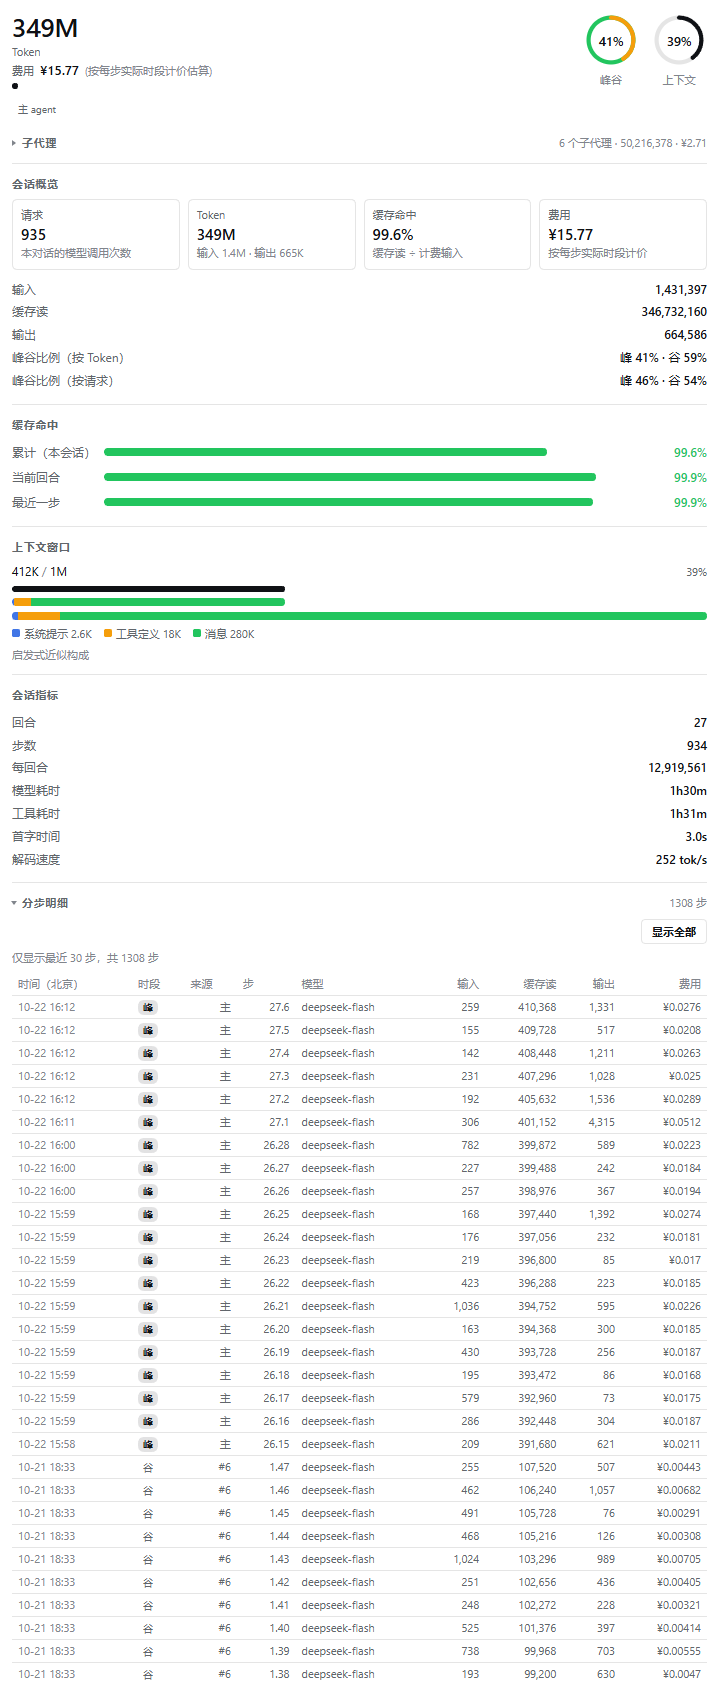
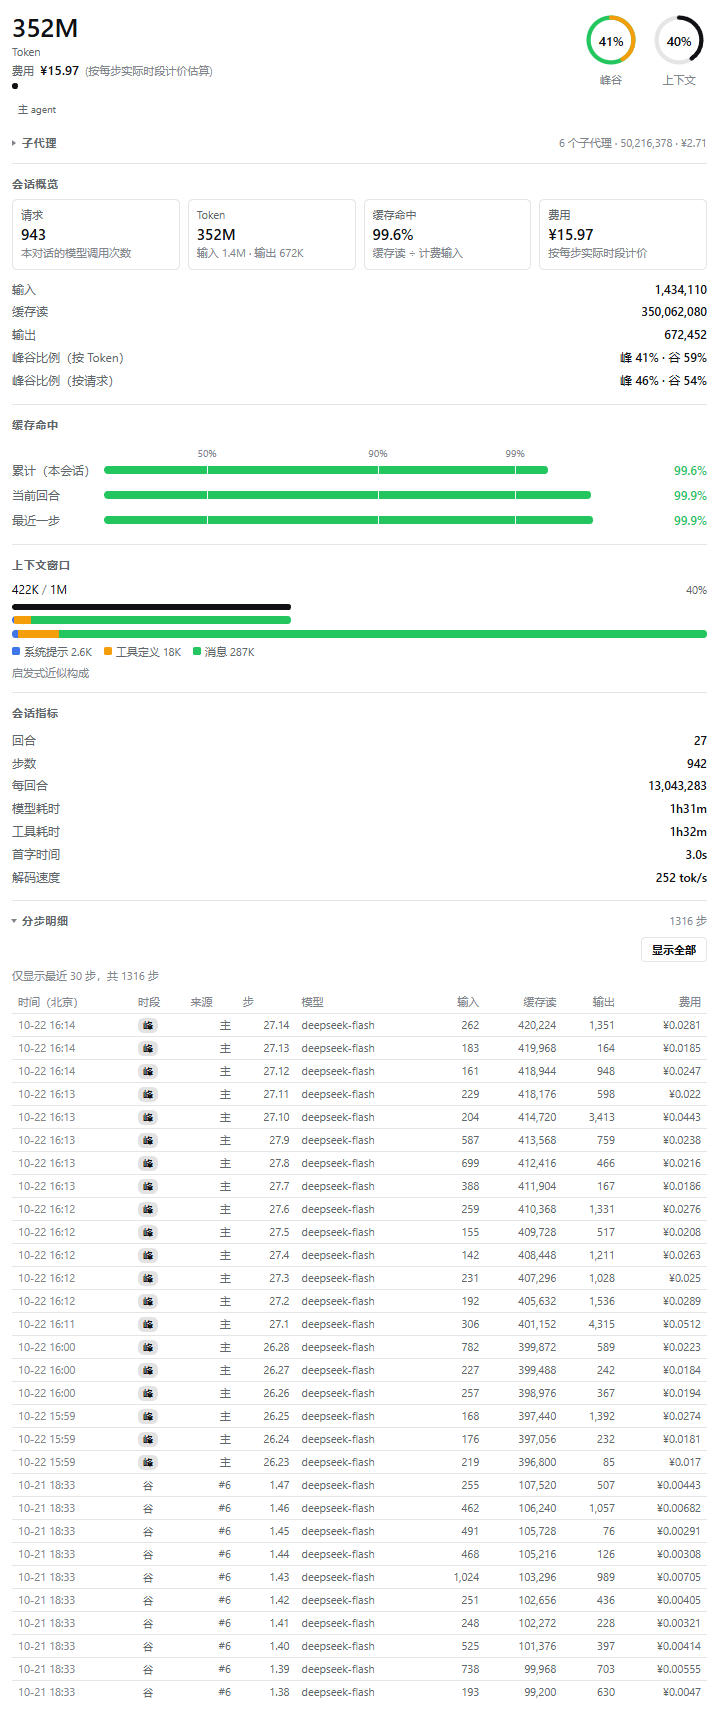
feat: ruler and tick lines for the cache-hit bars

diff --git a/dist/client.js b/dist/client.js
@@ -1,4 +1,4 @@
-/* dsh-usage-insights v0.10.1 — generated by scripts/build.mjs; do not edit. */
+/* dsh-usage-insights v0.10.2 — generated by scripts/build.mjs; do not edit. */
 window.__ModuleLoader__.load({
   id: "dsh-usage-insights",
   factory(require) {
@@ -1037,6 +1037,7 @@ function formatBeijingTime(atMs) {
 
 // src/lib/hit-scale.ts
 var HIT_SCALE_EXPONENT = 0.3;
+var HIT_TICKS = [0.5, 0.9, 0.99];
 function hitBarRatio(ratio) {
   const clamped = Math.min(1, Math.max(0, ratio));
   return 1 - (1 - clamped) ** HIT_SCALE_EXPONENT;
@@ -1345,12 +1346,42 @@ var css2 = `
 }
 
 .dsu-hit-track {
+  position: relative;
   flex: 1 1 auto;
   min-width: 0;
   height: 8px;
   overflow: hidden;
   border-radius: 999px;
   background: var(--dsw-alias-bg-layer-2);
+}
+
+.dsu-hit-grid {
+  position: absolute;
+  top: 0;
+  bottom: 0;
+  width: 1px;
+  background: var(--dsw-alias-bg-layer-1);
+}
+
+.dsu-hit--ruler {
+  padding-bottom: 0;
+}
+
+.dsu-hit-track--ruler {
+  height: 14px;
+  overflow: visible;
+  background: transparent;
+}
+
+.dsu-hit-tick {
+  position: absolute;
+  bottom: 0;
+  transform: translateX(-50%);
+  font-size: 10px;
+  line-height: 1;
+  white-space: nowrap;
+  color: var(--dsw-alias-label-tertiary);
+  font-variant-numeric: tabular-nums;
 }
 
 .dsu-hit-fill {
@@ -1933,8 +1964,18 @@ function HitBar(props) {
   const width = props.ratio === null ? 0 : hitBarRatio(props.ratio);
   return /* @__PURE__ */ (0, import_jsx_runtime2.jsxs)("div", { className: "dsu-hit", children: [
     /* @__PURE__ */ (0, import_jsx_runtime2.jsx)("span", { className: "dsu-hit-label", children: props.label }),
-    /* @__PURE__ */ (0, import_jsx_runtime2.jsx)("div", { className: "dsu-hit-track", children: props.ratio !== null && /* @__PURE__ */ (0, import_jsx_runtime2.jsx)("div", { className: "dsu-hit-fill", "data-level": level, style: { width: `${width * 100}%` } }) }),
+    /* @__PURE__ */ (0, import_jsx_runtime2.jsxs)("div", { className: "dsu-hit-track", children: [
+      HIT_TICKS.map((tick) => /* @__PURE__ */ (0, import_jsx_runtime2.jsx)("span", { className: "dsu-hit-grid", style: { left: `${hitBarRatio(tick) * 100}%` } }, tick)),
+      props.ratio !== null && /* @__PURE__ */ (0, import_jsx_runtime2.jsx)("div", { className: "dsu-hit-fill", "data-level": level, style: { width: `${width * 100}%` } })
+    ] }),
     /* @__PURE__ */ (0, import_jsx_runtime2.jsx)("span", { className: "dsu-hit-value", "data-level": level, children: props.ratio === null ? "\u2014" : formatPercent(props.ratio) })
+  ] });
+}
+function HitRuler() {
+  return /* @__PURE__ */ (0, import_jsx_runtime2.jsxs)("div", { className: "dsu-hit dsu-hit--ruler", "aria-hidden": "true", children: [
+    /* @__PURE__ */ (0, import_jsx_runtime2.jsx)("span", { className: "dsu-hit-label" }),
+    /* @__PURE__ */ (0, import_jsx_runtime2.jsx)("div", { className: "dsu-hit-track dsu-hit-track--ruler", children: HIT_TICKS.map((tick) => /* @__PURE__ */ (0, import_jsx_runtime2.jsx)("span", { className: "dsu-hit-tick", style: { left: `${hitBarRatio(tick) * 100}%` }, children: formatPercent(tick) }, tick)) }),
+    /* @__PURE__ */ (0, import_jsx_runtime2.jsx)("span", { className: "dsu-hit-value" })
   ] });
 }
 function CompositionProgress(props) {
@@ -2366,6 +2407,7 @@ function SessionPanel(props) {
       ] })
     ] }),
     view.hasUsage && /* @__PURE__ */ (0, import_jsx_runtime4.jsx)(Section, { title: t("section.cacheHit"), children: /* @__PURE__ */ (0, import_jsx_runtime4.jsxs)("div", { className: "dsu-hits", children: [
+      /* @__PURE__ */ (0, import_jsx_runtime4.jsx)(HitRuler, {}),
       /* @__PURE__ */ (0, import_jsx_runtime4.jsx)(HitBar, { label: t("cacheHit.total"), ratio: view.cacheHits.total }),
       /* @__PURE__ */ (0, import_jsx_runtime4.jsx)(HitBar, { label: t("cacheHit.turn"), ratio: view.cacheHits.turn }),
       /* @__PURE__ */ (0, import_jsx_runtime4.jsx)(HitBar, { label: t("cacheHit.step"), ratio: view.cacheHits.step })

diff --git a/src/client/components.tsx b/src/client/components.tsx
@@ -9,7 +9,7 @@
 import type { JSX, ReactNode } from 'react'
 import type { BandShareView, ChildAgentView, DayTotal, StepDetailView, Translate } from './contract'
 import { peakRequestShare, peakTokenShare } from '../lib/band-share.ts'
-import { hitBarRatio, hitLevel } from '../lib/hit-scale.ts'
+import { hitBarRatio, hitLevel, HIT_TICKS } from '../lib/hit-scale.ts'
 import { formatBeijingTime, formatCount, formatMoneyRange, formatPercent, formatTokenCount, formatTokens } from '../lib/format'
 import { css } from './styles'
 
@@ -96,7 +96,9 @@ export function ProgressBar(props: { ratio: number | null }): JSX.Element {
  * Cache-hit bar with its percentage.
  *
  * The fill uses the non-linear scale from `hit-scale` so rates above 90% keep
- * their differences visible; the percentage carries the status colour.
+ * their differences visible; the percentage carries the status colour. Reference
+ * ticks from the same scale are cut into the fill so a length can be read back
+ * as a percentage.
  *
  * @param props - row label and the hit ratio, or null without usage.
  * @returns the rendered bar.
@@ -108,6 +110,9 @@ export function HitBar(props: { label: string; ratio: number | null }): JSX.Elem
     <div className="dsu-hit">
       <span className="dsu-hit-label">{props.label}</span>
       <div className="dsu-hit-track">
+        {HIT_TICKS.map(tick => (
+          <span key={tick} className="dsu-hit-grid" style={{ left: `${hitBarRatio(tick) * 100}%` }} />
+        ))}
         {props.ratio !== null && (
           <div className="dsu-hit-fill" data-level={level} style={{ width: `${width * 100}%` }} />
         )}
@@ -115,6 +120,30 @@ export function HitBar(props: { label: string; ratio: number | null }): JSX.Elem
       <span className="dsu-hit-value" data-level={level}>
         {props.ratio === null ? '—' : formatPercent(props.ratio)}
       </span>
+    </div>
+  )
+}
+
+/**
+ * Ruler shared by the cache-hit bars.
+ *
+ * Sits above them with the same label/track/value structure, so every tick
+ * label lands exactly above the line cut into each bar.
+ *
+ * @returns the rendered ruler row.
+ */
+export function HitRuler(): JSX.Element {
+  return (
+    <div className="dsu-hit dsu-hit--ruler" aria-hidden="true">
+      <span className="dsu-hit-label" />
+      <div className="dsu-hit-track dsu-hit-track--ruler">
+        {HIT_TICKS.map(tick => (
+          <span key={tick} className="dsu-hit-tick" style={{ left: `${hitBarRatio(tick) * 100}%` }}>
+            {formatPercent(tick)}
+          </span>
+        ))}
+      </div>
+      <span className="dsu-hit-value" />
     </div>
   )
 }

diff --git a/src/client/SessionPanel.tsx b/src/client/SessionPanel.tsx
@@ -18,8 +18,8 @@ import {
 } from '../lib/format'
 import { peakTokenShare } from '../lib/band-share.ts'
 import {
-  bandShareText, ChildAgentsTable, CompositionBar, CompositionProgress, HitBar, InlineMessage, ProgressBar,
-  Ring, Row, Section, Stat, StepTable, StyleTag,
+  bandShareText, ChildAgentsTable, CompositionBar, CompositionProgress, HitBar, HitRuler, InlineMessage,
+  ProgressBar, Ring, Row, Section, Stat, StepTable, StyleTag,
 } from './components'
 import type { CompositionSegment } from './components'
 
@@ -206,6 +206,7 @@ export function SessionPanel(props: SessionPanelProps): JSX.Element {
       {view.hasUsage && (
         <Section title={t('section.cacheHit')}>
           <div className="dsu-hits">
+            <HitRuler />
             <HitBar label={t('cacheHit.total')} ratio={view.cacheHits.total} />
             <HitBar label={t('cacheHit.turn')} ratio={view.cacheHits.turn} />
             <HitBar label={t('cacheHit.step')} ratio={view.cacheHits.step} />

diff --git a/src/client/styles.ts b/src/client/styles.ts
@@ -302,12 +302,42 @@ export const css = `
 }
 
 .dsu-hit-track {
+  position: relative;
   flex: 1 1 auto;
   min-width: 0;
   height: 8px;
   overflow: hidden;
   border-radius: 999px;
   background: var(--dsw-alias-bg-layer-2);
+}
+
+.dsu-hit-grid {
+  position: absolute;
+  top: 0;
+  bottom: 0;
+  width: 1px;
+  background: var(--dsw-alias-bg-layer-1);
+}
+
+.dsu-hit--ruler {
+  padding-bottom: 0;
+}
+
+.dsu-hit-track--ruler {
+  height: 14px;
+  overflow: visible;
+  background: transparent;
+}
+
+.dsu-hit-tick {
+  position: absolute;
+  bottom: 0;
+  transform: translateX(-50%);
+  font-size: 10px;
+  line-height: 1;
+  white-space: nowrap;
+  color: var(--dsw-alias-label-tertiary);
+  font-variant-numeric: tabular-nums;
 }
 
 .dsu-hit-fill {

diff --git a/tests/hit-scale.test.ts b/tests/hit-scale.test.ts
@@ -1,5 +1,13 @@
 import { describe, expect, it } from 'vitest'
-import { HIT_SCALE_EXPONENT, hitBarRatio, hitLevel } from '../src/lib/hit-scale.ts'
+import { HIT_SCALE_EXPONENT, HIT_TICKS, hitBarRatio, hitLevel } from '../src/lib/hit-scale.ts'
+
+describe('HIT_TICKS', () => {
+  it('marks ascending reference points inside the range', () => {
+    expect([...HIT_TICKS]).toEqual([0.5, 0.9, 0.99])
+    expect([...HIT_TICKS].every(tick => tick > 0 && tick < 1)).toBe(true)
+    expect([...HIT_TICKS].every((tick, index, ticks) => index === 0 || ticks[index - 1]! < tick)).toBe(true)
+  })
+})
 
 describe('hitBarRatio', () => {
   it('keeps both endpoints', () => {

diff --git a/src/lib/hit-scale.ts b/src/lib/hit-scale.ts
@@ -11,6 +11,14 @@
 /** Power used by {@link hitBarRatio}; smaller values spread the high end wider. */
 export const HIT_SCALE_EXPONENT = 0.3
 
+/**
+ * Reference marks on the cache-hit bars.
+ *
+ * Three points are enough to read the non-linear scale: half of the input
+ * cached, the comfortable 90% line, and the near-full 99% line.
+ */
+export const HIT_TICKS = [0.5, 0.9, 0.99] as const
+
 /** Status band of one cache-hit rate. */
 export type HitLevel = 'good' | 'warn' | 'bad' | 'none'
 

diff --git a/README.md b/README.md
@@ -15,7 +15,7 @@
 ### 用量（当前对话）
 
 - **会话概览**：请求数、Token 总量、输入 / 缓存读 / 输出（缓存写仅在提供商上报显式缓存写入时显示）、缓存命中率、费用，以及峰谷比例（按 Token 与按请求各一行）。
-- **缓存命中**：三条横条分别显示本会话累计、当前回合、最近一步的缓存命中率。条形使用幂次刻度（`1-(1-r)^0.3`）放大 90% 以上区间的差异，百分比数字按状态着色：≥90% 绿色、70–90% 琥珀色、<70% 红色。
+- **缓存命中**：三条横条分别显示本会话累计、当前回合、最近一步的缓存命中率。条形使用幂次刻度（`1-(1-r)^0.3`）放大 90% 以上区间的差异，并带 50% / 90% / 99% 三档刻度尺与条内刻度线；百分比数字按状态着色：≥90% 绿色、70–90% 琥珀色、<70% 红色。
 - **Token 显示**：会话概览的 Token 卡片（含其输入/输出提示）使用 `K` / `M` / `G` 紧凑单位；会话概览的其余行、会话指标、子代理明细与分步明细显示千分位精确整数（如 `275,123,456`）；页头总量、上下文窗口与用量汇总也使用紧凑单位，悬停数字可看到精确值。
 - **上下文窗口**：第一行显示已用 / 容量与占用百分比；第二行是按占用比例填充的进度条；第三行是「占用 + 构成」组合条（宽度为占用比例，内部按三色分段）；第四行是整窗构成条；条下是带颜色的图例与各段数值。
 - **峰谷圈图**：上下文圈图左侧另有一个圈图，绿色轨道表示空闲、橙色弧线表示高峰，中心显示高峰占比（按 Token）。

diff --git a/README.EN.md b/README.EN.md
@@ -21,8 +21,9 @@ The plugin adds two right-Sidebar pages.
   (the cache-write row appears only when a provider reports explicit cache creation),
   cache-hit rate, cost, and the peak/off-peak share (one row by tokens, one by requests).
 - **Cache hit**: three bars for the cumulative, current-turn and latest-request hit rates. The
-  fill uses a power scale (`1-(1-r)^0.3`) so the region above 90% keeps its differences, and
-  the percentage is coloured by status: green at 90% or above, amber from 70%, red below.
+  fill uses a power scale (`1-(1-r)^0.3`) so the region above 90% keeps its differences, with a
+  50% / 90% / 99% ruler and matching tick lines cut into each bar; the percentage is coloured by
+  status: green at 90% or above, amber from 70%, red below.
 - **Token figures**: the overview's Token card (including its input/output hint) uses compact
   `K` / `M` / `G` units; the remaining overview rows, session metrics, subagent detail and
   request ledger show exact grouped integers (for example `275,123,456`); the header total,
